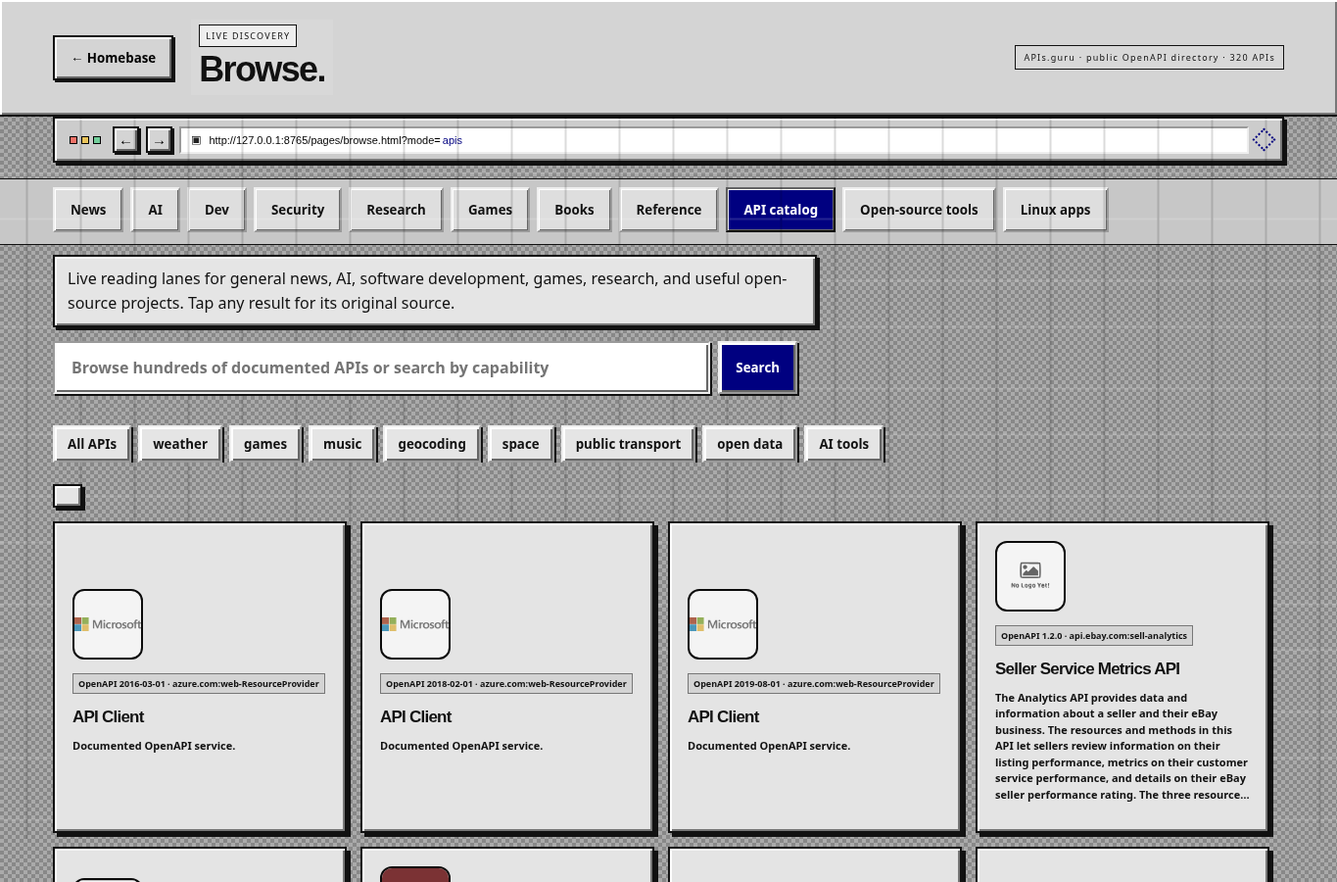
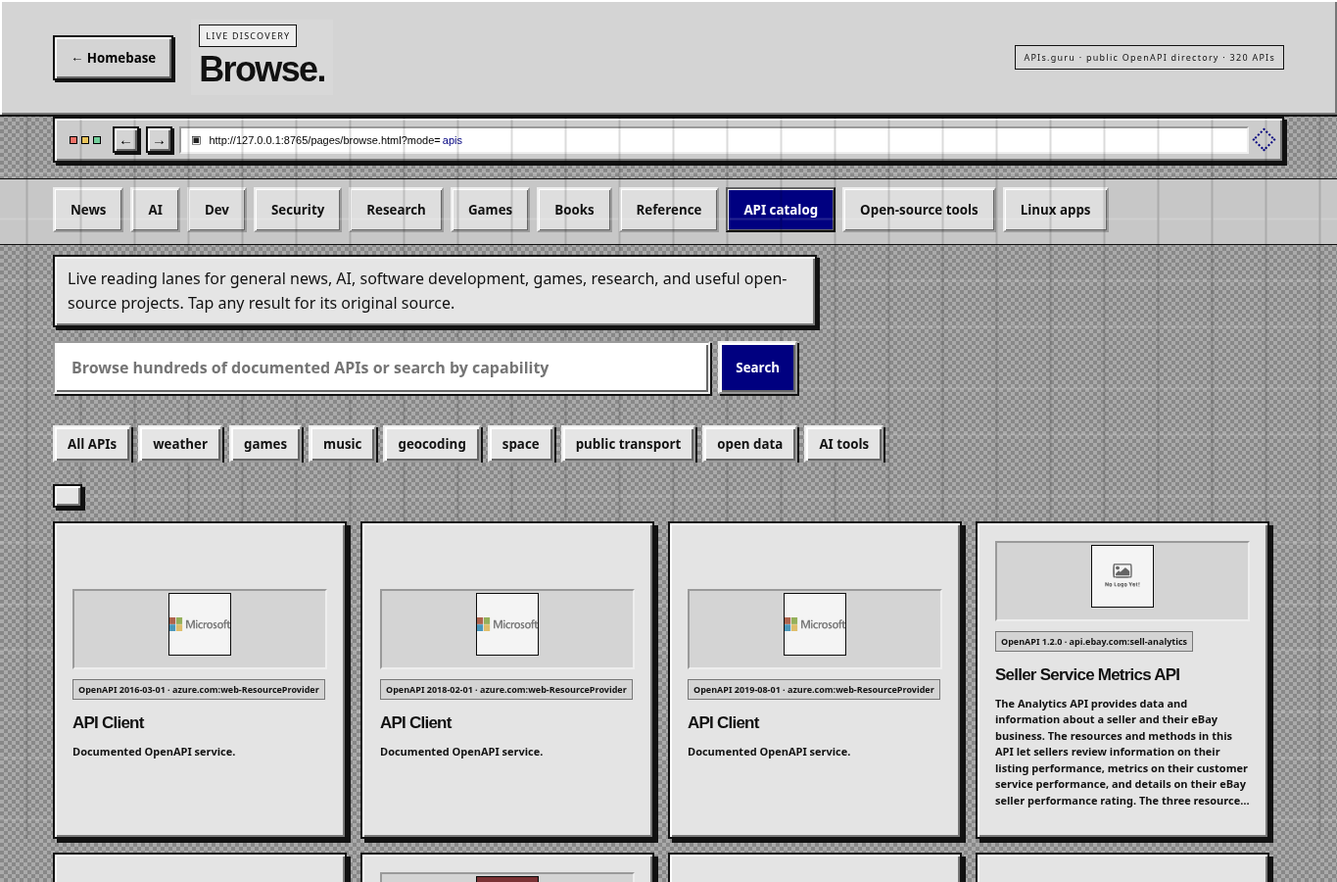
improve local workflow and kiosk setup

diff --git a/assets/scripts/shared/theme-sync.js b/assets/scripts/shared/theme-sync.js
@@ -13,7 +13,7 @@ if(location.pathname.endsWith('/utility-desk.html'))document.head.insertAdjacent
 if(location.pathname.endsWith('/utility-desk.html')&&!document.querySelector('script[data-utility-tools]')){const utilityTools=document.createElement('script');utilityTools.src='/assets/scripts/homebase/utility-desk-tools.js?v=90';utilityTools.dataset.utilityTools='true';document.head.append(utilityTools)}
 if(location.pathname.endsWith('/utility-desk.html'))addEventListener('DOMContentLoaded',()=>{const updates=document.querySelector('#updates');if(updates)updates.onclick=()=>parent!==window?parent.postMessage({type:'homebase-open-updates'},'*'):window.openUpdates?.()});
 if(!document.querySelector('script[data-retro-windows]')){const retroWindows=document.createElement('script');retroWindows.src='/assets/scripts/shared/retro-windows.js?v=61';retroWindows.dataset.retroWindows='true';document.head.append(retroWindows)}
-if(location.pathname.endsWith('/files.html')&&!document.querySelector('script[data-files-rename]')){const rename=document.createElement('script');rename.src='/assets/scripts/files/files-rename.js?v=61';rename.dataset.filesRename='true';document.head.append(rename);const trash=document.createElement('script');trash.src='/assets/scripts/files/files-trash-confirm.js?v=76';trash.dataset.filesTrashConfirm='true';document.head.append(trash)}
+if(location.pathname.endsWith('/files.html')&&!document.querySelector('script[data-files-rename]')){const rename=document.createElement('script');rename.src='/assets/scripts/files/files-rename.js?v=61';rename.dataset.filesRename='true';document.head.append(rename);const trash=document.createElement('script');trash.src='/assets/scripts/files/files-trash-confirm.js?v=76';trash.dataset.filesTrashConfirm='true';document.head.append(trash);const copy=document.createElement('script');copy.src='/assets/scripts/files/files-copy-paste.js?v=103';copy.dataset.filesCopyPaste='true';document.head.append(copy)}
 if(location.pathname.endsWith('/arcade.html')&&!document.querySelector('script[data-game-scan]')){const scan=document.createElement('script');scan.src='/assets/scripts/arcade/game-library-scan.js?v=61';scan.dataset.gameScan='true';document.head.append(scan);const live=document.createElement('script');live.src='/assets/scripts/arcade/game-library-live.js?v=75';live.dataset.gameScanLive='true';document.head.append(live)}if(location.pathname.endsWith('/arcade.html')&&!document.querySelector('script[data-archive-filters]')){const filters=document.createElement('script');filters.src='/assets/scripts/arcade/archive-filters.js?v=96';filters.dataset.archiveFilters='true';document.head.append(filters)}if(location.pathname.endsWith('/arcade.html')&&!document.querySelector('script[data-archive-scroll-guard]')){const sheet=document.createElement('link');sheet.rel='stylesheet';sheet.href='/assets/styles/arcade/archive-scroll-guard.css?v=97';document.head.append(sheet);const guard=document.createElement('script');guard.src='/assets/scripts/arcade/archive-scroll-guard.js?v=97';guard.dataset.archiveScrollGuard='true';document.head.append(guard)}
 if(location.pathname.endsWith('/game-setup.html')&&!document.querySelector('script[data-game-autofill]')){const autofill=document.createElement('script');autofill.src='/assets/scripts/arcade/game-import-autofill.js?v=63';autofill.dataset.gameAutofill='true';document.head.append(autofill);const duplicate=document.createElement('script');duplicate.src='/assets/scripts/arcade/game-import-existing.js?v=74';duplicate.dataset.gameDuplicate='true';document.head.append(duplicate)}
 if(location.pathname.endsWith('/console.html')&&!document.querySelector('script[data-console-key]')){const consoleKey=document.createElement('script');consoleKey.src='/assets/scripts/homebase/console-key-setup.js?v=70';consoleKey.dataset.consoleKey='true';document.head.append(consoleKey)}if(location.pathname.endsWith('/console.html')&&!document.querySelector('script[data-thinking-component]')){const sheet=document.createElement('link');sheet.rel='stylesheet';sheet.href='/assets/styles/components/thinking-indicator.css?v=98';document.head.append(sheet);const thinking=document.createElement('script');thinking.src='/assets/scripts/components/thinking-indicator.js?v=98';thinking.dataset.thinkingComponent='true';document.head.append(thinking)}if(location.pathname.endsWith('/console.html')&&!document.querySelector('script[data-agent-client]')){const agent=document.createElement('script');agent.src='/assets/scripts/agent/client.js?v=98';agent.dataset.agentClient='true';document.head.append(agent)}
@@ -21,4 +21,5 @@ if(location.pathname.endsWith('/console.html')&&!document.querySelector('script[
 if(location.pathname.endsWith('/settings.html')&&!document.querySelector('script[data-backup-presets]')){const presets=document.createElement('script');presets.src='/assets/scripts/settings/backup-presets.js?v=64';presets.dataset.backupPresets='true';document.head.append(presets)}
 if(location.pathname.endsWith('/settings.html')&&!document.querySelector('script[data-wallpaper-explorer]')){for(const href of ['/assets/styles/homebase/wallpaper-explorer.css?v=92','/assets/styles/homebase/wallpaper-explorer-extra.css?v=92','/assets/styles/homebase/wallpaper-explorer-light.css?v=96']){const sheet=document.createElement('link');sheet.rel='stylesheet';sheet.href=href;document.head.append(sheet)}const explorer=document.createElement('script');explorer.src='/assets/scripts/settings/wallpaper-explorer.js?v=96';explorer.dataset.wallpaperExplorer='true';document.head.append(explorer)}
 if(location.pathname.endsWith('/settings.html')&&!document.querySelector('script[data-wallpaper-pack-two]')){const sheet=document.createElement('link');sheet.rel='stylesheet';sheet.href='/assets/styles/homebase/wallpaper-explorer-pack-two.css?v=100';document.head.append(sheet);const pack=document.createElement('script');pack.src='/assets/scripts/settings/wallpaper-explorer-pack-two.js?v=100';pack.dataset.wallpaperPackTwo='true';document.head.append(pack)}
+if(location.pathname.endsWith('/settings.html')&&!document.querySelector('script[data-fullscreen-kiosk]')){const kiosk=document.createElement('script');kiosk.src='/assets/scripts/settings/fullscreen-kiosk.js?v=103';kiosk.dataset.fullscreenKiosk='true';document.head.append(kiosk)}
 if(location.pathname.includes('/weather-station/')&&!document.querySelector('script[data-weather-station]')){const sheet=document.createElement('link');sheet.rel='stylesheet';sheet.href='/assets/styles/apps/weather-station.css?v=99';document.head.append(sheet);const weather=document.createElement('script');weather.src='/assets/scripts/apps/weather-station.js?v=99';weather.dataset.weatherStation='true';document.head.append(weather)}

diff --git a/assets/scripts/discovery/browse.js b/assets/scripts/discovery/browse.js
@@ -8,7 +8,7 @@
   const links=document.createElement('div');links.className='official-links';query.closest('form').after(links);
   function setup(){const c=configs[mode];page=0;query.placeholder=c.placeholder;query.value=c.initial;history.replaceState(null,'',location.pathname+'?mode='+encodeURIComponent(mode));$('#browser-base').textContent=location.origin+location.pathname+'?mode=';$('#browser-route').textContent=mode;suggestions.innerHTML=c.chips.map(v=>'<button data-q="'+esc(v)+'">'+esc(v)+'</button>').join('');suggestions.querySelectorAll('button').forEach(b=>b.onclick=()=>{query.value=mode==='apis'&&b.dataset.q==='All APIs'?'':b.dataset.q;load()});links.innerHTML=(official[mode]||[]).map(([label,url])=>'<a href="'+url+'" target="_blank" rel="noopener">'+label+' ↗</a>').join('');load()}
   async function load(){page=0;pagination.innerHTML='';results.innerHTML='<i class="skeleton"></i><i class="skeleton"></i><i class="skeleton"></i>';status.textContent='Loading…';try{const response=await fetch('/api/browse/'+mode+'?q='+encodeURIComponent(query.value.trim()));if(!(response.headers.get('content-type')||'').includes('application/json'))throw Error('Restart Homebase to activate the latest Browse service.');const data=await response.json();if(!response.ok)throw Error(data.error||'Source unavailable');items=data.items||[];source.textContent=data.source||'';render()}catch(error){results.innerHTML='';pagination.innerHTML='';status.textContent='Could not load this source: '+error.message}}
-  function render(){const count=Math.max(1,Math.ceil(items.length/pageSize)),start=page*pageSize,visible=items.slice(start,start+pageSize);status.textContent=items.length+' result'+(items.length===1?'':'s')+' · page '+(page+1)+' of '+count+' · tap a card for its source';results.innerHTML=visible.map((x,i)=>'<button class="result kind-'+esc(x.kind)+'" data-i="'+(start+i)+'">'+(x.image?'<img loading="lazy" src="'+esc(x.image)+'" alt="">':'')+(x.meta?'<time>'+esc(x.meta)+'</time>':'')+'<h2>'+esc(x.title)+'</h2><p>'+esc(x.summary||'Open for more information.')+'</p></button>').join('');results.querySelectorAll('button').forEach(b=>b.onclick=()=>open(items[+b.dataset.i]));pagination.innerHTML=count>1?'<button data-page="prev" '+(page===0?'disabled':'')+'>← Newer</button><span>PAGE '+(page+1)+' / '+count+'</span><button data-page="next" '+(page===count-1?'disabled':'')+'>Older →</button>':'';pagination.querySelectorAll('button').forEach(button=>button.onclick=()=>{page+=button.dataset.page==='next'?1:-1;render();document.querySelector('main').scrollIntoView({behavior:'smooth',block:'start'})})}
+  function render(){const count=Math.max(1,Math.ceil(items.length/pageSize)),start=page*pageSize,visible=items.slice(start,start+pageSize);status.textContent=items.length+' result'+(items.length===1?'':'s')+' · page '+(page+1)+' of '+count+' · tap a card for its source';results.innerHTML=visible.map((x,i)=>'<button class="result kind-'+esc(x.kind)+'" data-i="'+(start+i)+'"><div class="result-visual">'+(x.image?'<img loading="lazy" src="'+esc(x.image)+'" alt="">':'<span aria-hidden="true">⌘</span>')+'</div>'+(x.meta?'<time>'+esc(x.meta)+'</time>':'')+'<h2>'+esc(x.title)+'</h2><p>'+esc(x.summary||'Open for more information.')+'</p></button>').join('');results.querySelectorAll('button').forEach(b=>b.onclick=()=>open(items[+b.dataset.i]));pagination.innerHTML=count>1?'<button data-page="prev" '+(page===0?'disabled':'')+'>← Newer</button><span>PAGE '+(page+1)+' / '+count+'</span><button data-page="next" '+(page===count-1?'disabled':'')+'>Older →</button>':'';pagination.querySelectorAll('button').forEach(button=>button.onclick=()=>{page+=button.dataset.page==='next'?1:-1;render();document.querySelector('main').scrollIntoView({behavior:'smooth',block:'start'})})}
   function project(x){return '<div class="project-head">'+(x.image?'<img src="'+esc(x.image)+'" alt="">':'')+'<div><small>OPEN-SOURCE PROJECT</small><h1>'+esc(x.title)+'</h1><p>Maintained by '+esc(x.owner)+'</p></div></div><p class="modal-summary">'+esc(x.summary)+'</p><div class="project-facts"><span><b>'+Number(x.stars||0).toLocaleString()+'</b>Stars</span><span><b>'+Number(x.forks||0).toLocaleString()+'</b>Forks</span><span><b>'+esc(x.language)+'</b>Language</span><span><b>'+esc(x.license)+'</b>License</span><span><b>'+Number(x.issues||0).toLocaleString()+'</b>Open issues</span><span><b>'+esc((x.updated||'').slice(0,10))+'</b>Updated</span></div>'+(x.topics?.length?'<h3>Topics</h3><div class="project-topics">'+x.topics.map(t=>'<span>'+esc(t)+'</span>').join('')+'</div>':'')+'<div class="project-actions">'+(x.homepage?'<a href="'+esc(x.homepage)+'" target="_blank" rel="noopener">Project site</a>':'')+'<a class="primary" href="'+esc(x.url)+'" target="_blank" rel="noopener">View repository</a></div>'}
   function renderOpen(index){
     openIndex=Math.max(0,Math.min(items.length-1,index));const x=items[openIndex];

diff --git a/assets/scripts/files/files-copy-paste.js b/assets/scripts/files/files-copy-paste.js
@@ -1,0 +1,16 @@
+(()=>{
+  const clipboardKey='homebase-library-copy-v1';
+  const boot=()=>{
+    const menu=document.querySelector('#menu'),actions=menu?.querySelector('.menu-actions'),headerActions=document.querySelector('header .actions');
+    if(!menu||!actions||document.querySelector('#library-copy'))return;
+    const copy=document.createElement('button');copy.id='library-copy';copy.textContent='Copy';actions.querySelector('#rename')?.before(copy);
+    const paste=document.createElement('button');paste.id='library-paste';paste.textContent='Paste';paste.disabled=!localStorage.getItem(clipboardKey);headerActions?.append(paste);
+    const input=document.createElement('dialog');input.className='library-input-dialog';input.innerHTML='<form method="dialog"><h2></h2><p></p><label><span>Name</span><input maxlength="180" autocomplete="off"></label><div><button value="cancel">Cancel</button><button value="save">Save</button></div></form>';document.body.append(input);
+    const askName=(title,copyText,value='')=>new Promise(resolve=>{input.querySelector('h2').textContent=title;input.querySelector('p').textContent=copyText;const field=input.querySelector('input');field.value=value;input.onclose=()=>resolve(input.returnValue==='save'?field.value.trim():'');input.showModal();requestAnimationFrame(()=>{field.focus();field.select()})});
+    copy.onclick=()=>{if(!selected)return;localStorage.setItem(clipboardKey,JSON.stringify({path:selected.path,name:selected.name,directory:!!selected.directory}));paste.disabled=false;menu.close();notice('Copied '+selected.name+' · choose a folder and tap Paste')};
+    paste.onclick=async()=>{let item;try{item=JSON.parse(localStorage.getItem(clipboardKey)||'null')}catch{}if(!item?.path){paste.disabled=true;return}paste.disabled=true;paste.textContent='Copying…';try{const result=await action('copy',{path:item.path,destination:current});if(result){notice('Copied '+item.name+' into '+(current.split('/').pop()||'Home'));await load()}}finally{paste.disabled=false;paste.textContent='Paste'}};
+    document.querySelector('#mkdir').onclick=async()=>{const name=await askName('Create folder','Folders are created inside the current location.');if(!name)return;if(!/^[^\\/\0.]+$/.test(name)){notice('Use a plain folder name');return}const result=await action('mkdir',{parent:current,name});if(result){notice('Folder created');await load()}};
+    document.head.insertAdjacentHTML('beforeend','<style>.library-input-dialog{width:min(440px,92vw);padding:23px;border:1px solid #6f8490;border-radius:18px;background:#12191e;color:#eef6f8;box-shadow:0 28px 80px #000b}.library-input-dialog::backdrop{background:#000a;backdrop-filter:blur(7px)}.library-input-dialog h2{margin:0 0 8px}.library-input-dialog p{margin:0 0 15px;color:#b8c7cc}.library-input-dialog label{display:grid;gap:6px}.library-input-dialog label span{font-size:10px;letter-spacing:.1em}.library-input-dialog input{min-height:46px;padding:0 10px;border:1px solid #ffffff38;background:#071016;color:#fff}.library-input-dialog form>div{display:flex;justify-content:flex-end;gap:8px;margin-top:18px}.library-input-dialog button{min-height:42px;padding:0 13px;border:1px solid #ffffff35;background:#ffffff10;color:#fff}html[data-theme="ultra-retro"] .library-input-dialog{border:3px solid #000;border-radius:0;background:#d4d4d4;color:#111;box-shadow:inset 3px 3px #fff,inset -3px -3px #666,7px 7px #111}html[data-theme="ultra-retro"] .library-input-dialog p{color:#111}html[data-theme="ultra-retro"] .library-input-dialog input{border:2px inset #eee;background:#fff;color:#111}html[data-theme="ultra-retro"] .library-input-dialog button{border:2px outset #eee;background:#d4d4d4;color:#111}</style>');
+  };
+  if(document.readyState==='loading')addEventListener('DOMContentLoaded',()=>setTimeout(boot,60),{once:true});else setTimeout(boot,60);
+})();

diff --git a/assets/scripts/homebase/deck.js b/assets/scripts/homebase/deck.js
@@ -1,6 +1,6 @@
 document.head.insertAdjacentHTML('beforeend','<link rel="stylesheet" href="/assets/styles/homebase/orbit-performance.css"><link rel="stylesheet" href="/assets/styles/homebase/orbit-clean-header.css"><link rel="stylesheet" href="/assets/styles/homebase/header-actions.css"><link rel="stylesheet" href="/assets/styles/homebase/desktop-destinations.css"><link rel="stylesheet" href="/assets/styles/homebase/desktop-arrange.css"><link rel="stylesheet" href="/assets/styles/homebase/window-chrome.css"><link rel="stylesheet" href="/assets/styles/shared/ultra-retro.css"><script src="/assets/scripts/homebase/orbit-actions.js?v=64"><\/script><script src="/assets/scripts/homebase/orbit-pixel-reactive.js?v=78"><\/script><script src="/assets/scripts/homebase/orbit-pixel-final.js?v=94"><\/script><script src="/assets/scripts/homebase/orbit-pixel-guaranteed.js?v=84"><\/script><script src="/assets/scripts/homebase/desktop-arrange.js?v=82"><\/script>');
 document.head.insertAdjacentHTML('beforeend','<link rel="stylesheet" href="/assets/styles/homebase/first-run.css"><script src="/assets/scripts/homebase/first-run.js?v=61" defer><\/script>');
-document.head.insertAdjacentHTML('beforeend','<script src="/assets/scripts/homebase/update-check.js?v=62" defer><\/script><style>#homebase-update-ready{position:fixed;z-index:999;right:18px;bottom:18px;display:grid;gap:3px;max-width:330px;border:1px solid #8ee8fa66;border-radius:15px;background:#18262b;color:#effcff;padding:13px 15px;text-align:left;box-shadow:0 16px 45px #0008;cursor:pointer}#homebase-update-ready b{font-size:13px}#homebase-update-ready span{font-size:11px;color:#b9cdd1}#homebase-update-ready i{font-style:normal;color:#8ee8fa;font-size:11px;font-weight:800}</style>');
+document.head.insertAdjacentHTML('beforeend','<script src="/assets/scripts/homebase/pwa-install.js?v=103" defer><\/script><script src="/assets/scripts/homebase/update-check.js?v=62" defer><\/script><style>#homebase-update-ready{position:fixed;z-index:999;right:18px;bottom:18px;display:grid;gap:3px;max-width:330px;border:1px solid #8ee8fa66;border-radius:15px;background:#18262b;color:#effcff;padding:13px 15px;text-align:left;box-shadow:0 16px 45px #0008;cursor:pointer}#homebase-update-ready b{font-size:13px}#homebase-update-ready span{font-size:11px;color:#b9cdd1}#homebase-update-ready i{font-style:normal;color:#8ee8fa;font-size:11px;font-weight:800}</style>');
 document.head.insertAdjacentHTML('beforeend','<script src="/assets/scripts/shared/retro-windows.js?v=61" data-retro-windows><\/script><script src="/assets/scripts/homebase/fortify-behavior.js?v=68"><\/script><script src="/assets/scripts/homebase/relay-drag.js?v=85"><\/script><link rel="stylesheet" href="/assets/styles/homebase/fortify-terminal.css">');
 addEventListener('DOMContentLoaded',()=>{const clock=document.querySelector('#clock');if(clock&&!document.querySelector('.quick-fullscreen'))clock.insertAdjacentHTML('afterend','<button class="quick-fullscreen" onclick="toggleFullscreen()" aria-label="Enter or leave fullscreen" title="Fullscreen">⛶</button>');[...document.querySelectorAll('.tile')].find(tile=>tile.querySelector('b')?.textContent.includes('Fullscreen'))?.classList.add('fullscreen-feature');fetch('/api/user-apps').then(r=>r.json()).then(data=>{const grid=document.querySelector('.grid');for(const app of data.apps||[]){if(document.querySelector('[data-user-app="'+app.id+'"]'))continue;const tile=document.createElement('button');tile.className='tile';tile.dataset.userApp=app.id;tile.innerHTML='<i></i><b></b><span></span>';tile.querySelector('i').textContent=app.icon;tile.querySelector('b').textContent=app.name;tile.querySelector('span').textContent=app.description;tile.onclick=()=>openPanel(app.url);grid?.append(tile)}}).catch(()=>{})});
 

diff --git a/pages/browse.html b/pages/browse.html
@@ -1,6 +1,6 @@
 <!doctype html>
 <html lang="en"><head><meta charset="utf-8"><meta name="viewport" content="width=device-width,initial-scale=1">
-<title>Browse · Homebase</title><link rel="stylesheet" href="/assets/styles/discovery/browse.css"><link rel="stylesheet" href="/assets/styles/discovery/browse-enhancements.css"><link rel="stylesheet" href="/assets/styles/discovery/browse-layout-fix.css"><link rel="stylesheet" href="/assets/styles/discovery/browse-article-nav.css?v=83"><link rel="stylesheet" href="/assets/styles/shared/ultra-retro.css"><link rel="stylesheet" href="/assets/styles/discovery/browse-retro-title.css"><link rel="stylesheet" href="/assets/styles/discovery/browse-browser-chrome.css?v=94"><link rel="stylesheet" href="/assets/styles/discovery/browse-retro-contrast.css?v=101"><script src="/assets/scripts/shared/theme-sync.js"></script></head>
+<title>Browse · Homebase</title><link rel="stylesheet" href="/assets/styles/discovery/browse.css"><link rel="stylesheet" href="/assets/styles/discovery/browse-enhancements.css"><link rel="stylesheet" href="/assets/styles/discovery/browse-layout-fix.css"><link rel="stylesheet" href="/assets/styles/discovery/browse-article-nav.css?v=83"><link rel="stylesheet" href="/assets/styles/shared/ultra-retro.css"><link rel="stylesheet" href="/assets/styles/discovery/browse-retro-title.css"><link rel="stylesheet" href="/assets/styles/discovery/browse-browser-chrome.css?v=94"><link rel="stylesheet" href="/assets/styles/discovery/browse-retro-contrast.css?v=101"><link rel="stylesheet" href="/assets/styles/discovery/browse-card-alignment.css?v=102"><script src="/assets/scripts/shared/theme-sync.js"></script></head>
 <body><header><button class="back" onclick="parent!==window?parent.closePocket():history.back()">← Homebase</button><div><small>LIVE DISCOVERY</small><h1>Browse.</h1></div><span id="source"></span></header>
 <div class="browser-chrome" aria-label="Homebase web browser"><span class="browser-lights" aria-hidden="true"><i></i><i></i><i></i></span><button type="button" class="browser-nav" aria-label="Back">←</button><button type="button" class="browser-nav" aria-label="Forward">→</button><div class="browser-address"><span>▣</span><b id="browser-base"></b><em id="browser-route"></em></div><span class="browser-activity" aria-hidden="true"></span></div>
 <nav><button class="active" data-mode="news">News</button><button data-mode="ai">AI</button><button data-mode="dev">Dev</button><button data-mode="security">Security</button><button data-mode="research">Research</button><button data-mode="games">Games</button><button data-mode="books">Books</button><button data-mode="reference">Reference</button><button data-mode="apis">API catalog</button><button data-mode="projects">Open-source tools</button><button data-mode="linux">Linux apps</button></nav>

diff --git a/assets/scripts/settings/fullscreen-kiosk.js b/assets/scripts/settings/fullscreen-kiosk.js
@@ -1,0 +1,1 @@
+(()=>{const boot=()=>{const device=document.querySelector('#device');if(!device||document.querySelector('#fullscreen-kiosk'))return;const section=document.createElement('section');section.id='fullscreen-kiosk';section.innerHTML='<h2>Fullscreen & kiosk</h2><p>Three free ways to remove browser chrome. Pick the one that fits how you use Homebase.</p><ol><li><b>Recommended — PWA:</b> tap Install Homebase app. It opens like a normal app with no URL bar.</li><li><b>Temporary fullscreen:</b> use Enter fullscreen for this session; leave with <kbd>Esc</kbd>.</li><li><b>Optional local kiosk:</b> run the generated Chromium command in Linux Terminal when this Chromebook is dedicated to Homebase. Exit with <kbd>Alt</kbd> + <kbd>F4</kbd>; it does not use paid managed ChromeOS kiosk licensing.</li></ol><div class="actions"><button data-pwa class="primary">Install Homebase app</button><button data-full>Enter fullscreen</button><button data-kiosk>Show kiosk command</button></div><pre hidden></pre><p class="kiosk-note"></p>';device.after(section);const note=section.querySelector('.kiosk-note'),pre=section.querySelector('pre');section.querySelector('[data-pwa]').onclick=async()=>{try{await (parent.HomebasePWA?.install?.()||Promise.reject(Error('Open this in Chrome or Edge, then use the browser menu → Install Homebase.')));note.textContent='Install prompt opened.'}catch(error){note.textContent=error.message}};section.querySelector('[data-full]').onclick=()=>parent.document.documentElement.requestFullscreen?.();section.querySelector('[data-kiosk]').onclick=()=>{pre.hidden=false;pre.textContent='chromium --kiosk --app="http://penguin.linux.test:8765/"';note.textContent='Copy this optional Linux command into Terminal. It is free, local, and reversible.'};document.head.insertAdjacentHTML('beforeend','<style>#fullscreen-kiosk{margin-top:18px}#fullscreen-kiosk ol{line-height:1.6;padding-left:22px}#fullscreen-kiosk pre{padding:12px;overflow:auto;background:#10161b;color:#dce9ed}html[data-theme="ultra-retro"] #fullscreen-kiosk pre{border:2px inset #eee;background:#fff;color:#000080}</style>')};addEventListener('DOMContentLoaded',boot,{once:true});setTimeout(boot,500)})();

diff --git a/assets/styles/discovery/browse-card-alignment.css b/assets/styles/discovery/browse-card-alignment.css
@@ -1,0 +1,8 @@
+/* A result always reserves one horizontal visual row.  API cards with no
+   remote logo therefore line up exactly with cards that do have one. */
+.result-visual{height:82px;display:grid;place-items:center;margin-bottom:10px;border:1px solid #ffffff20;border-radius:10px;background:#ffffff08;overflow:hidden}
+.result-visual img{width:70px!important;height:70px!important;max-height:none!important;margin:0!important;object-fit:contain!important;border-radius:9px;background:#ffffff08}
+.result-visual span{display:grid;place-items:center;width:48px;height:48px;border:1px solid currentColor;border-radius:9px;color:var(--accent);font:24px ui-monospace,monospace}
+html[data-theme="ultra-retro"] .result-visual{height:82px!important;border:2px inset #eee!important;border-radius:0!important;background:#d4d4d4!important}
+html[data-theme="ultra-retro"] .result-visual img{width:64px!important;height:64px!important;border:1px solid #111!important;border-radius:0!important;background:#eee!important;filter:grayscale(.55) contrast(1.05)!important}
+html[data-theme="ultra-retro"] .result-visual span{color:#000080!important;border:2px solid #000080!important;border-radius:0!important;background:#eee!important}

diff --git a/assets/scripts/homebase/pwa-install.js b/assets/scripts/homebase/pwa-install.js
@@ -1,0 +1,1 @@
+(()=>{let deferred=null;addEventListener('beforeinstallprompt',event=>{event.preventDefault();deferred=event});window.HomebasePWA={available:()=>!!deferred,install:async()=>{if(!deferred)throw Error('Use Chrome or Edge menu → Install Homebase if the install button is unavailable.');deferred.prompt();await deferred.userChoice;deferred=null}}})();

diff --git a/server.py b/server.py
@@ -926,7 +926,7 @@ class PocketArchiveHandler(SimpleHTTPRequestHandler):
                 except OSError:
                     pass
             return
-        if route.path in {"/api/files/mkdir", "/api/files/rename", "/api/files/trash", "/api/files/upload", "/api/files/open"}:
+        if route.path in {"/api/files/mkdir", "/api/files/rename", "/api/files/copy", "/api/files/trash", "/api/files/upload", "/api/files/open"}:
             length = min(int(self.headers.get("Content-Length", "0")), 1024 ** 3)
             if route.path == "/api/files/upload":
                 folder = safe_home_path(urllib.parse.parse_qs(route.query).get("path", ["Desktop"])[0])
@@ -969,6 +969,15 @@ class PocketArchiveHandler(SimpleHTTPRequestHandler):
                     if target.exists() and target != source:
                         raise ValueError("a file or folder with that name already exists")
                     source.rename(target)
+                elif route.path == "/api/files/copy":
+                    destination = safe_home_path(payload.get("destination", ""))
+                    if not source or source == HOME_ROOT or not source.exists() or not destination or not destination.is_dir():
+                        raise ValueError("invalid copy source or destination")
+                    target = destination / source.name
+                    if target.exists():
+                        raise ValueError("a file or folder with that name already exists here")
+                    if source.is_dir(): shutil.copytree(source, target)
+                    else: shutil.copy2(source, target)
                 elif route.path == "/api/files/trash":
                     if not source or source == HOME_ROOT:
                         raise ValueError("invalid trash target")
@@ -979,7 +988,7 @@ class PocketArchiveHandler(SimpleHTTPRequestHandler):
                     subprocess.Popen(["gio", "open", str(source)], start_new_session=True,
                         stdout=subprocess.DEVNULL, stderr=subprocess.DEVNULL,
                         env={**os.environ, "DISPLAY": os.environ.get("DISPLAY", ":0")})
-                self._json(201 if route.path == "/api/files/mkdir" else 200, {"ok": True, "created": str(target.relative_to(HOME_ROOT)) if route.path == "/api/files/mkdir" else None})
+                self._json(201 if route.path == "/api/files/mkdir" else 200, {"ok": True, "created": str(target.relative_to(HOME_ROOT)) if route.path in {"/api/files/mkdir", "/api/files/copy"} else None})
             except (OSError, ValueError, subprocess.CalledProcessError) as error:
                 self._json(400, {"error": str(error)})
             return

diff --git a/README.md b/README.md
@@ -38,6 +38,10 @@ powershell -NoProfile -ExecutionPolicy Bypass -Command "irm https://raw.githubus
 
 Homebase opens automatically. In Chrome or Edge, choose **Install Homebase** to make it fullscreen and remove the address bar. Your games, saves, music, and personal files stay on your computer and are not uploaded to GitHub.
 
+### EmulatorJS runtime (automatic)
+
+Both installers download and unpack the local **EmulatorJS 4.2.3 runtime** on first install (roughly 290 MB), then verify `emulatorjs/data/loader.js` exists before Homebase starts. On Windows, the installer uses the free 7-Zip helper and offers to install it through Winget when needed. It is a local dependency—not something users need to add by hand—and remains ignored by Git. If a first install was interrupted, run the same installer command again; it resumes by installing only a missing runtime. The official EmulatorJS 4.2.3 release is the runtime source. [EmulatorJS release](https://github.com/EmulatorJS/EmulatorJS/releases)
+
 ### Add games you own
 
 Homebase ships without commercial games. To add a backup you legally made:
@@ -87,6 +91,8 @@ Orbit combines internet radio and local audio playlists with audio-reactive visu
 
 Relay works as a local guide without a key, or can use a locally stored API key for richer chat and draft help. Its **Workspace Editor** can load an allowlisted set of Homebase core files, create a review-only AI draft, and apply a reviewed edit only after explicit typed confirmation. Every write makes a timestamped local backup. Generated mini-apps remain isolated in `user-apps/`; they do not gain core-file access.
 
+![Relay local assistant in Ultra Retro](media/relay-workspace.png)
+
 ### App search and installation
 
 ![Your Linux apps inside Browse’s Ultra Retro Explorer](media/app-discovery.png)
@@ -119,11 +125,11 @@ File access is confined to the current user’s home folder by the local server.
 
 ### Settings, saves, and portable backup
 
-![Settings and selective backup, presented with a retro pixel-mosaic privacy treatment](media/settings-backup-pixelated.png)
+![Settings and selective backup](media/settings-backup.png)
 
 Settings can export or merge independent data groups: My Library, user-provided ROMs, native saves, artwork, imports, mGBA data, Orbit playlists, Flatpak data, browser preferences, and an installed-app inventory. Restore defaults to merge-and-skip; replacing matching files requires an explicit choice.
 
-The README uses a pixelated version of the real Settings capture so public docs keep the same retro visual language and avoid exposing personal data. The installed local app is not pixelated; it shows the real controls, local library, and any owner-provided game imagery. A soft-focus presentation variant remains at [`media/settings-backup-blur.png`](media/settings-backup-blur.png).
+The README uses a crisp current Settings capture. Pixel-mosaic treatment is reserved only for public game-shelf imagery that could expose local ROM covers or gameplay. A soft-focus presentation variant remains at [`media/settings-backup-blur.png`](media/settings-backup-blur.png).
 
 EmulatorJS saves live in browser IndexedDB, so Homebase also includes a separate browser-save export/import tool for that protected data.
 
